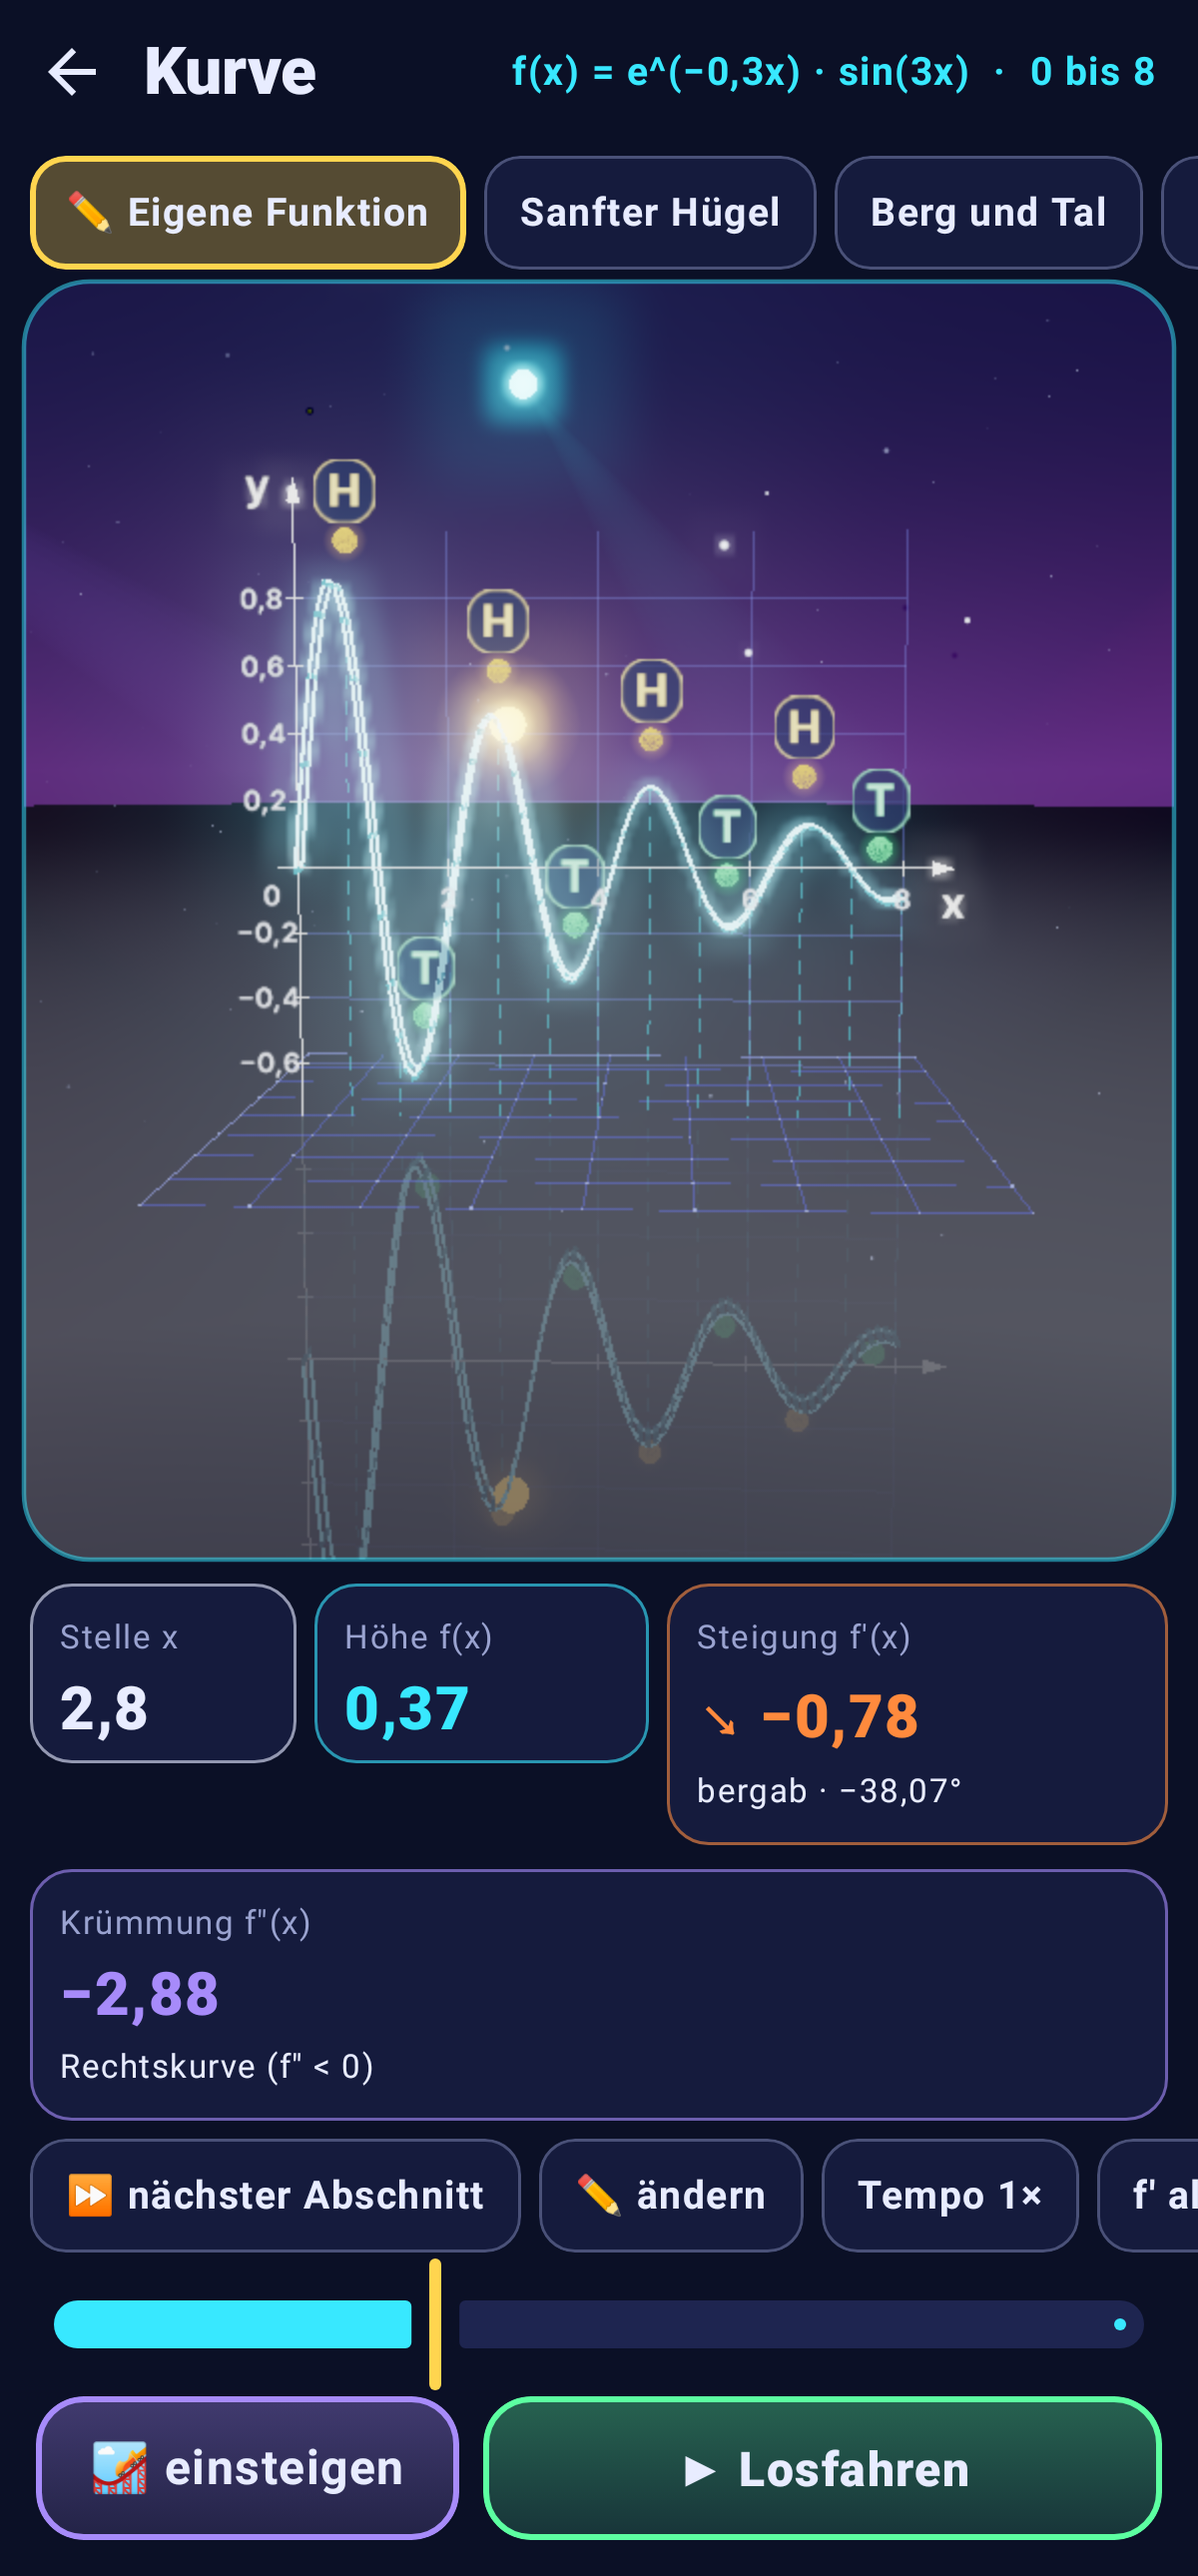
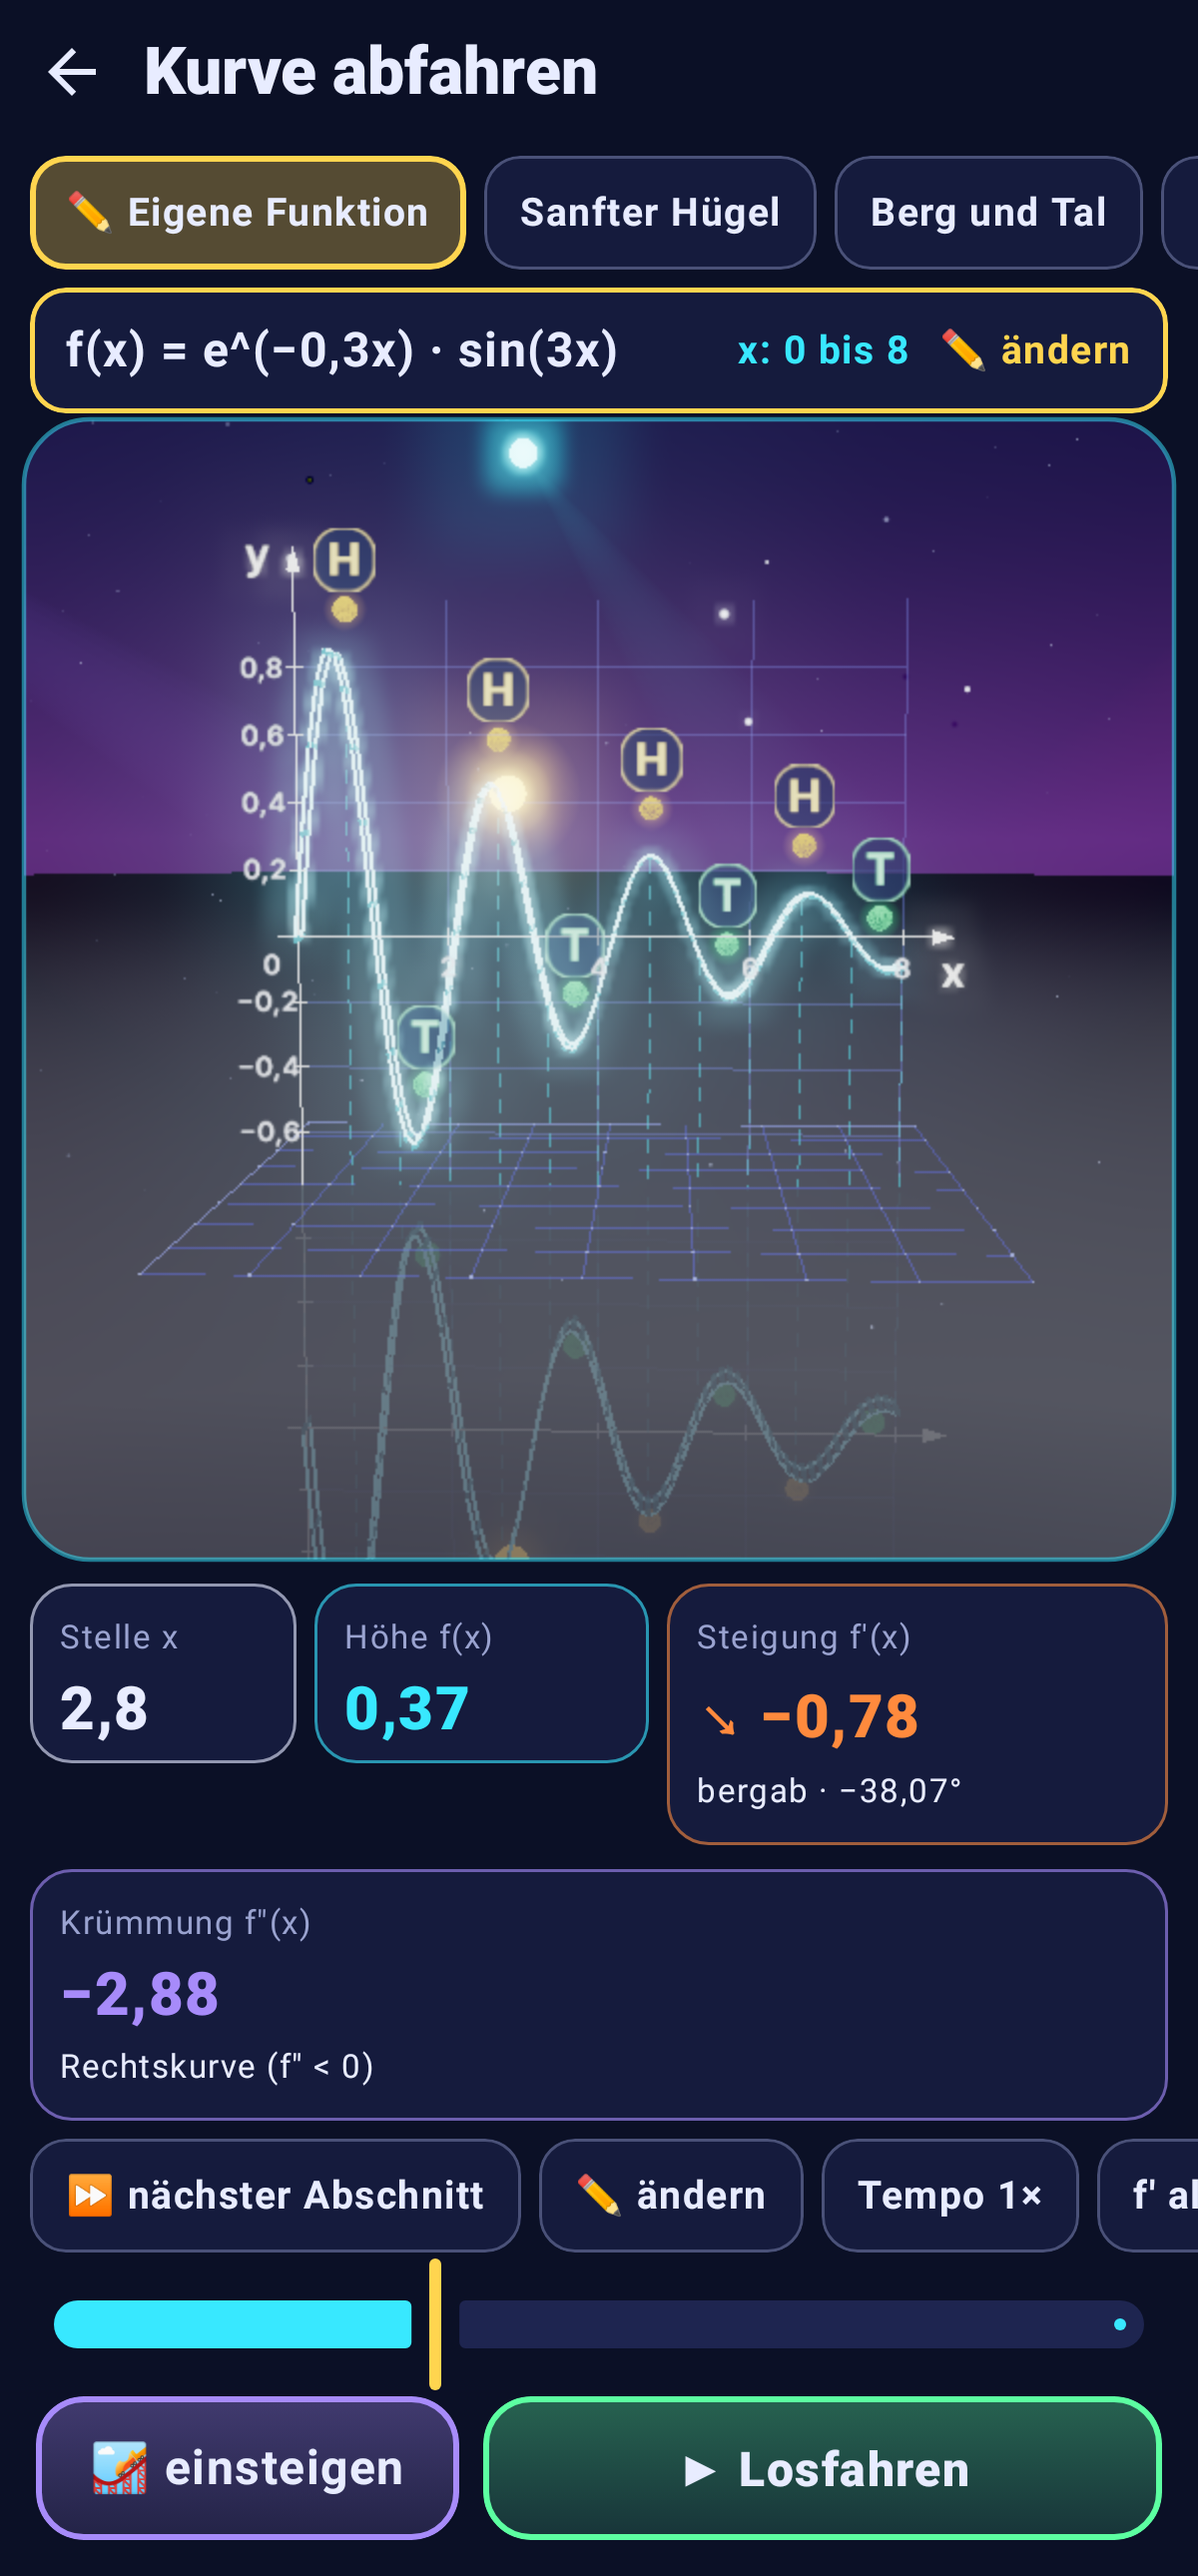
Raumlicht 0.7.2: eigene Funktion und sichtbaren Abschnitt leichter eingeben
Die eigene Funktion steht als antippbare Zeile über der Bühne, mit dem
gewählten Abschnitt. von und bis lassen sich direkt eintippen; ungültige
Bereiche werden erklärt.

Claude-Session: https://claude.ai/code/session_015vg1TkCEYsXkAEYjbLFPi2

diff --git a/raumlicht/app/src/main/java/de/raumlicht/app/ui/home/RideScreen.kt b/raumlicht/app/src/main/java/de/raumlicht/app/ui/home/RideScreen.kt
@@ -58,9 +58,16 @@ fun RideScreen(onBack: () -> Unit, startId: String = Coaster.rides.first().id, c
     // „Term|von|bis“ der fertigen Bahn – eine gespeicherte, gültige Funktion steht sofort wieder da
     var built by rememberSaveable { mutableStateOf(custom.takeIf { c -> c.split('|').let { p -> p.size == 3 && p[1].toDoubleOrNull() != null && p[2].toDoubleOrNull() != null && Expr.parse(p[0]).getOrNull()?.let { Coaster.custom(it, p[1].toDouble(), p[2].toDouble()) } != null } } ?: "") }
     var error by remember { mutableStateOf<String?>(null) }
+    // „von“ und „bis“ lassen sich auch direkt eintippen; der Text folgt den Knöpfen und dem Weiterfahren
+    var fromText by rememberSaveable { mutableStateOf(from.toString()) }; var toText by rememberSaveable { mutableStateOf(to.toString()) }
+    LaunchedEffect(from) { if (fromText.toIntOrNull() != from) fromText = from.toString() }
+    LaunchedEffect(to) { if (toText.toIntOrNull() != to) toText = to.toString() }
     var editing by rememberSaveable { mutableStateOf(built.isEmpty()) }
     val own: Ride? = remember(built) { built.split('|').takeIf { it.size == 3 }?.let { p -> Expr.parse(p[0]).getOrNull()?.let { Coaster.custom(it, p[1].toDouble(), p[2].toDouble()) } } }
     fun build(): Boolean {
+        if (fromText.toIntOrNull() == null || toText.toIntOrNull() == null) { error = "„von“ und „bis“ brauchen ganze Zahlen, zum Beispiel −3 und 5."; return false }
+        if (from >= to) { error = "„von“ muss kleiner sein als „bis“."; return false }
+        if (to - from > 1000) { error = "Der Abschnitt ist zu lang – höchstens 1000 Einheiten auf einmal."; return false }
         val e = Expr.parse(term).getOrElse { error = it.message; return false }
         if (Coaster.custom(e, from.toDouble(), to.toDouble()) == null) { error = "Zwischen $from und $to ist die Funktion nicht definiert. Wähl einen anderen Abschnitt."; return false }
         error = null; built = "$term|$from|$to"; onCustom(built); return true
@@ -106,7 +113,7 @@ fun RideScreen(onBack: () -> Unit, startId: String = Coaster.rides.first().id, c
     }
 
     Column(Modifier.fillMaxSize().background(Q.Space).systemBarsPadding()) {
-        Bar("Kurve abfahren", onBack) { Text("f(x) = ${ride.text}" + if (isOwn && own != null) "  ·  ${Geo.num(ride.from)} bis ${Geo.num(ride.to)}" else "", Modifier.testTag("term"), color = Q.Cyan, fontWeight = FontWeight.Bold, fontSize = 13.sp, maxLines = 1) }
+        Bar("Kurve abfahren", onBack) { if (!isOwn) Text("f(x) = ${ride.text}", Modifier.testTag("term"), color = Q.Cyan, fontWeight = FontWeight.Bold, fontSize = 13.sp, maxLines = 1) }
         Row(Modifier.fillMaxWidth().horizontalScroll(rememberScrollState()).padding(horizontal = 10.dp, vertical = 4.dp), horizontalArrangement = Arrangement.spacedBy(6.dp)) {
             Pick("✏ Eigene Funktion", isOwn, Q.Yellow, "bahn-eigene") { rideId = Coaster.CUSTOM; editing = own == null }
             Coaster.rides.forEach { r ->
@@ -127,12 +134,21 @@ fun RideScreen(onBack: () -> Unit, startId: String = Coaster.rides.first().id, c
             }
             Row(verticalAlignment = Alignment.CenterVertically, horizontalArrangement = Arrangement.spacedBy(5.dp)) {
                 Text("von", color = Q.Muted, fontSize = 13.sp)
-                Pick("−", false, Q.Violet, "von-minus") { from -= 1 }; Text(Geo.num(from), Modifier.testTag("von"), fontWeight = FontWeight.Black, color = Q.Text); Pick("+", false, Q.Violet, "von-plus") { if (from < to - 1) from += 1 }
-                Text("bis", Modifier.padding(start = 8.dp), color = Q.Muted, fontSize = 13.sp)
-                Pick("−", false, Q.Violet, "bis-minus") { if (to > from + 1) to -= 1 }; Text(Geo.num(to), Modifier.testTag("bis"), fontWeight = FontWeight.Black, color = Q.Text); Pick("+", false, Q.Violet, "bis-plus") { to += 1 }
-                Spacer(Modifier.weight(1f))
+                Pick("−", false, Q.Violet, "von-minus") { from -= 1 }; Bound(fromText, "von") { fromText = it; it.toIntOrNull()?.let { v -> from = v }; error = null }; Pick("+", false, Q.Violet, "von-plus") { if (from < to - 1) from += 1 }
+                Text("bis", Modifier.padding(start = 4.dp), color = Q.Muted, fontSize = 13.sp)
+                Pick("−", false, Q.Violet, "bis-minus") { if (to > from + 1) to -= 1 }; Bound(toText, "bis") { toText = it; it.toIntOrNull()?.let { v -> to = v }; error = null }; Pick("+", false, Q.Violet, "bis-plus") { to += 1 }
+            }
+            Row(verticalAlignment = Alignment.CenterVertically) {
+                Text("Abschnitt der x-Achse, den du sehen willst – Zahlen antippen zum Eintippen.", Modifier.weight(1f), color = Q.Muted, fontSize = 11.sp)
                 NeonButton({ if (build()) { editing = false; sfx?.play(Sound.CELL) } }, Modifier.testTag("eigene-bauen"), color = Q.Yellow) { Text("Bahn bauen", fontWeight = FontWeight.Black) }
             }
+        }
+        // Fertige eigene Bahn: die Funktion steht als antippbare Zeile über der Bühne – dort gibt man eine neue ein
+        if (isOwn && !editing) Row(Modifier.fillMaxWidth().padding(horizontal = 10.dp, vertical = 2.dp).clip(RoundedCornerShape(12.dp)).background(Q.Deep).border(1.5.dp, Q.Yellow, RoundedCornerShape(12.dp))
+            .clickable { editing = true }.padding(horizontal = 12.dp, vertical = 9.dp).testTag("eigene-zeile"), verticalAlignment = Alignment.CenterVertically) {
+            Text("f(x) = ${ride.text}", Modifier.weight(1f).testTag("term"), color = Q.Text, fontWeight = FontWeight.Bold, maxLines = 1, overflow = androidx.compose.ui.text.style.TextOverflow.Ellipsis)
+            Text("x: ${Geo.num(ride.from)} bis ${Geo.num(ride.to)}", Modifier.padding(horizontal = 10.dp).testTag("abschnitt"), color = Q.Cyan, fontWeight = FontWeight.Bold, fontSize = 13.sp, maxLines = 1)
+            Text("✏ ändern", color = Q.Yellow, fontWeight = FontWeight.Bold, fontSize = 13.sp)
         }
         if (isOwn && !editing && ride.clipped) Text("Die Kurve ist am Rand abgeschnitten (Polstelle oder Lücke).", Modifier.padding(horizontal = 12.dp).testTag("abgeschnitten"), color = Q.Orange, fontSize = 12.sp)
         Box(Modifier.fillMaxWidth().weight(1f).padding(horizontal = 8.dp)) {
@@ -179,6 +195,16 @@ fun RideScreen(onBack: () -> Unit, startId: String = Coaster.rides.first().id, c
             }
         }
     }
+}
+
+/** Kleines Zahlenfeld für „von“ / „bis“: antippen und eintippen (auch negative Zahlen) */
+@Composable
+private fun Bound(text: String, tag: String, onChange: (String) -> Unit) {
+    androidx.compose.foundation.text.BasicTextField(text, { v -> onChange(v.replace('−', '-').filterIndexed { i, c -> c.isDigit() || (c == '-' && i == 0) }.take(6)) },
+        Modifier.width(58.dp).background(Q.Panel, RoundedCornerShape(10.dp)).border(1.dp, Q.Violet.copy(alpha = 0.7f), RoundedCornerShape(10.dp)).padding(vertical = 8.dp).testTag(tag), singleLine = true,
+        textStyle = androidx.compose.ui.text.TextStyle(color = Q.Text, fontWeight = FontWeight.Black, fontSize = 16.sp, textAlign = androidx.compose.ui.text.style.TextAlign.Center),
+        cursorBrush = androidx.compose.ui.graphics.SolidColor(Q.Yellow),
+        keyboardOptions = androidx.compose.foundation.text.KeyboardOptions(keyboardType = androidx.compose.ui.text.input.KeyboardType.Text, imeAction = androidx.compose.ui.text.input.ImeAction.Done))
 }
 
 /** Tempo-Stufen für die automatische Fahrt */

diff --git a/raumlicht/app/src/test/java/de/raumlicht/app/ui/PlayFlowTest.kt b/raumlicht/app/src/test/java/de/raumlicht/app/ui/PlayFlowTest.kt
@@ -157,21 +157,31 @@ class PlayFlowTest {
         rule.onNodeWithTag("von-plus").performClick(); rule.onNodeWithTag("bis-plus").performClick(); rule.onNodeWithTag("bis-plus").performClick()   // Abschnitt −1 bis 4
         rule.onNodeWithTag("eigene-bauen").performClick(); rule.mainClock.advanceTimeBy(600)
         assertEquals("x^2-x|-1|4", stored)
-        rule.onNodeWithTag("term").assertTextEquals("f(x) = x²−x  ·  −1 bis 4"); rule.onNodeWithTag("eigene-eingabe").assertDoesNotExist()
+        rule.onNodeWithTag("term", useUnmergedTree = true).assertTextEquals("f(x) = x²−x"); rule.onNodeWithTag("abschnitt", useUnmergedTree = true).assertTextEquals("x: −1 bis 4"); rule.onNodeWithTag("eigene-eingabe").assertDoesNotExist()
         assertTrue(stage.lastState!!.contains("\"type\":\"axes2d\"") && stage.lastState!!.contains("\"label\":\"N\"") && stage.lastState!!.contains("\"label\":\"T\""))
         slide("fahrt-regler", 0.3f)                                                                                      // x = 0,5: Tiefpunkt
         rule.onNodeWithText("Tiefpunkt bei x = 0,5").assertExists(); rule.onNodeWithText("→ 0").assertExists()
         rule.onNodeWithTag("weiter-abschnitt").performClick(); rule.mainClock.advanceTimeBy(600)                         // nahtlos weiter: 4 bis 9
-        assertEquals("x^2-x|4|9", stored); rule.onNodeWithTag("term").assertTextEquals("f(x) = x²−x  ·  4 bis 9")
+        assertEquals("x^2-x|4|9", stored); rule.onNodeWithTag("term", useUnmergedTree = true).assertTextEquals("f(x) = x²−x"); rule.onNodeWithTag("abschnitt", useUnmergedTree = true).assertTextEquals("x: 4 bis 9")
         rule.onNodeWithText("12").assertExists()                                                                         // Start des neuen Abschnitts: f(4) = 12
         rule.onNodeWithTag("eigene-aendern").performClick(); rule.mainClock.advanceTimeBy(300); rule.onNodeWithTag("eigene-eingabe").assertExists()
+        // die Zeile über der Bühne öffnet die Eingabe ebenfalls
+        rule.onNodeWithTag("eigene-bauen").performClick(); rule.mainClock.advanceTimeBy(500); rule.onNodeWithTag("eigene-eingabe").assertDoesNotExist()
+        rule.onNodeWithTag("eigene-zeile").performClick(); rule.mainClock.advanceTimeBy(300)
+        rule.onNodeWithTag("eigene-eingabe").assertExists()
     }
 
     @Test fun ownFunctionIsRememberedAndPolesAreFlagged() {
         show { RideScreen({}, de.raumlicht.core.model.Coaster.CUSTOM, controller = stage, custom = "1/x|-2|2") }
-        rule.onNodeWithTag("abgeschnitten").assertExists(); rule.onNodeWithTag("term").assertTextEquals("f(x) = 1/x  ·  −2 bis 2")       // steht sofort wieder da
+        rule.onNodeWithTag("abgeschnitten").assertExists(); rule.onNodeWithTag("term", useUnmergedTree = true).assertTextEquals("f(x) = 1/x"); rule.onNodeWithTag("abschnitt", useUnmergedTree = true).assertTextEquals("x: −2 bis 2")       // steht sofort wieder da
         rule.onNodeWithTag("eigene-aendern").performClick(); rule.mainClock.advanceTimeBy(300)
-        rule.onNodeWithTag("von").assertTextEquals("−2"); rule.onNodeWithTag("bis").assertTextEquals("2")
+        rule.onNodeWithTag("von").assertTextEquals("-2"); rule.onNodeWithTag("bis").assertTextEquals("2")
+        // den sichtbaren Abschnitt direkt eintippen – auch weit weg und negativ
+        rule.onNodeWithTag("von").performTextReplacement("-40"); rule.onNodeWithTag("bis").performTextReplacement("-10"); rule.onNodeWithTag("eigene-bauen").performClick(); rule.mainClock.advanceTimeBy(500)
+        rule.onNodeWithTag("term", useUnmergedTree = true).assertTextEquals("f(x) = 1/x"); rule.onNodeWithTag("abschnitt", useUnmergedTree = true).assertTextEquals("x: −40 bis −10")
+        rule.onNodeWithTag("eigene-zeile").performClick(); rule.mainClock.advanceTimeBy(300)
+        rule.onNodeWithTag("bis").performTextReplacement("-50"); rule.onNodeWithTag("eigene-bauen").performClick(); rule.mainClock.advanceTimeBy(300)
+        rule.onNodeWithTag("eigene-fehler").assertTextEquals("„von“ muss kleiner sein als „bis“.")
     }
 
     @Test fun rideSpeedCanBeChanged() {

diff --git a/docs/APP-IDEEN.md b/docs/APP-IDEEN.md
@@ -18,7 +18,7 @@ Reihenfolge: eine App fertig optimieren, dann die nächste. Das Rechnen ist jewe
 
 | App | Spielprinzip | Inhalte | Status |
 |---|---|---|---|
-| 💡 **Raumlicht** (`raumlicht/`) | Mathe-Abi in echtem 3D: Laser = Geraden, Glas = Ebenen, Drohne Lux fliegt Vektoren; Kurven fährt man als Achterbahn ab, Zufall fällt durchs Galton-Brett | Geometrie, Analysis und Stochastik (89 Aufgaben, 17 Kapitel); Fahrersicht für Kurven und Geraden, Galton-Brett, Abi-Aufgaben, Rechenweg in Schritten, Endlos üben, Ohne Hilfsmittel, Fehler-Tagebuch, Klausur-Planer, Duell, Klasse, 3D-Rechner, 2 Widgets | ✅ 0.7.1 (15.11.2026) |
+| 💡 **Raumlicht** (`raumlicht/`) | Mathe-Abi in echtem 3D: Laser = Geraden, Glas = Ebenen, Drohne Lux fliegt Vektoren; Kurven fährt man als Achterbahn ab, Zufall fällt durchs Galton-Brett | Geometrie, Analysis und Stochastik (89 Aufgaben, 17 Kapitel); Fahrersicht für Kurven und Geraden, Galton-Brett, Abi-Aufgaben, Rechenweg in Schritten, Endlos üben, Ohne Hilfsmittel, Fehler-Tagebuch, Klausur-Planer, Duell, Klasse, 3D-Rechner, 2 Widgets | ✅ 0.7.2 (15.11.2026) |
 
 Ideen für später: weitere Abi-Simulationen (auch auf Zeit), Jam für Bewegung und Kugeln, mehr Analysis in 3D (Flächen, Extremwerte), Stochastik, Klassen-Modus für Lehrkräfte.
 

diff --git a/raumlicht/CHANGELOG.md b/raumlicht/CHANGELOG.md
@@ -2,6 +2,12 @@
 
 Jede Version steht hier mit ihrem Datum.
 
+## 0.7.2 – Eigene Funktion leichter eingeben (15.11.2026)
+- Bei „Eigene Funktion“ steht die Funktion jetzt als gut sichtbare Zeile über der Bühne: antippen („✏ Funktion eingeben“) öffnet die Eingabe.
+  Vorher war sie nur über den kleinen Knopf „ändern“ erreichbar.
+- **Sichtbaren Abschnitt frei wählen:** „von“ und „bis“ lassen sich jetzt direkt eintippen (auch negativ und weit weg), zusätzlich zu − und +.
+  Der gewählte Abschnitt steht in der Zeile über der Bühne.
+
 ## 0.7.1 – Ableitungen am richtigen Achsenkreuz (15.11.2026)
 - **Fehler behoben:** Beim Einschalten von f′ rutschte die Kurve auf eine neue Höhe, das Achsenkreuz blieb aber stehen – Kurve, Ableitung und Zahlen passten nicht zusammen.
   Jetzt wandert das Achsenkreuz mit.
